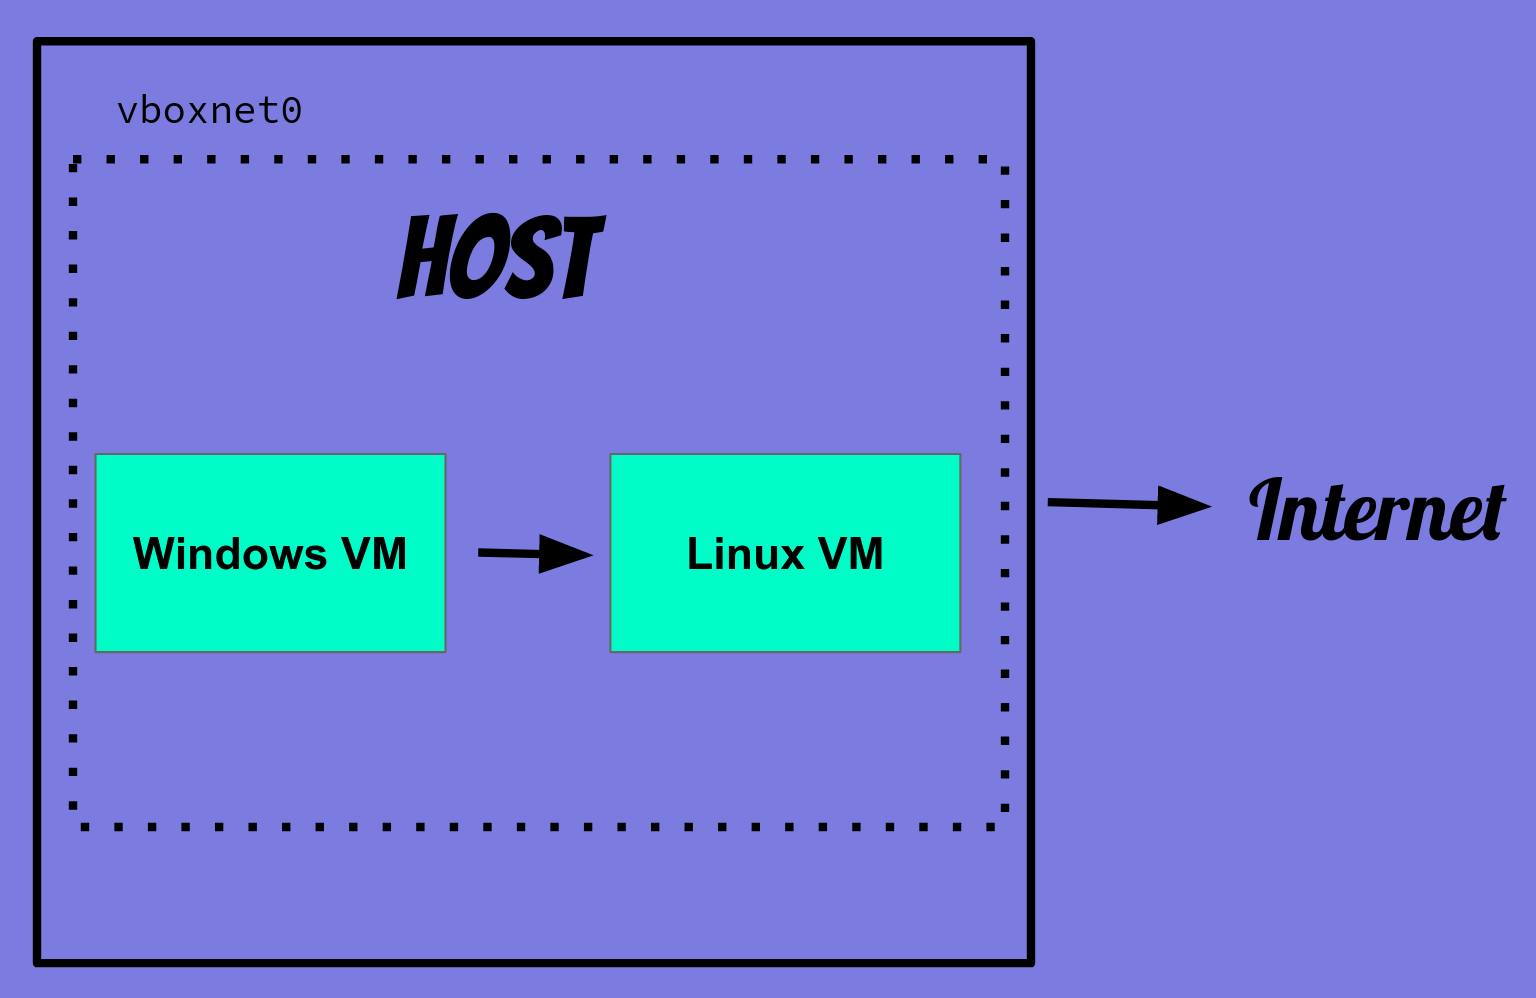
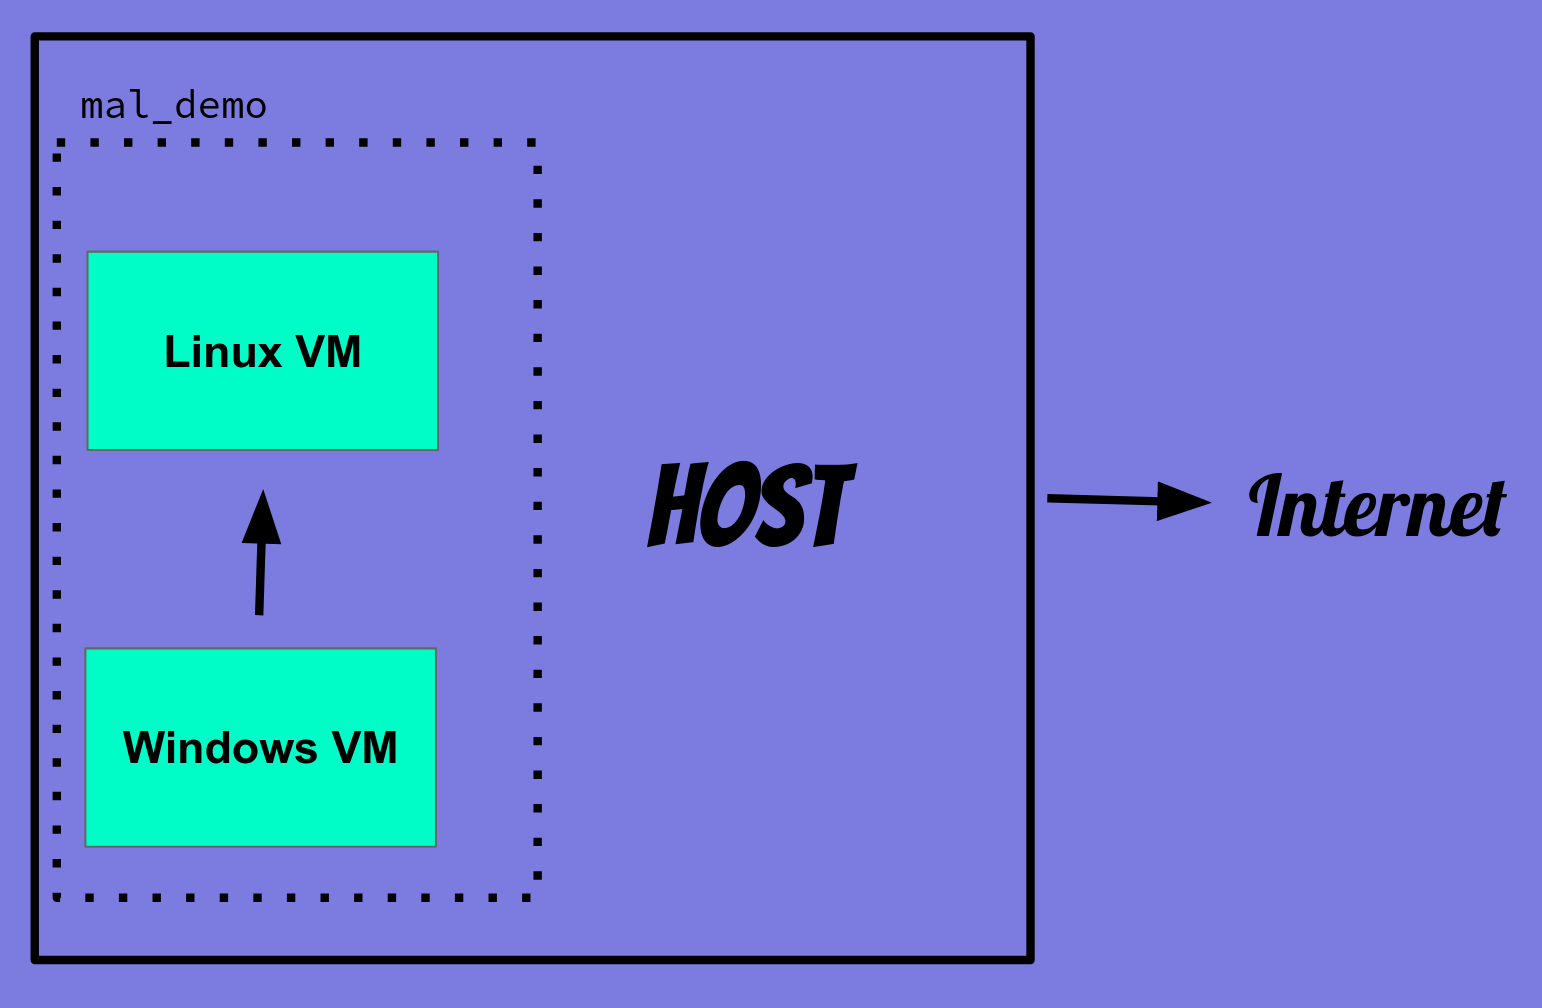
Internal Network setup

diff --git a/MalwareAnalysis/Workshop_Setup_Guide.md b/MalwareAnalysis/Workshop_Setup_Guide.md
@@ -14,15 +14,18 @@
 
 ## Lab Setup Guide 
 
+In our lab we want all traffic from the Windows VM (where we will be running malware) to pass through the Linux VM (which acts as a fake DNS and sniffer).  
+Additionally we not want the VMs to communicate with out Host machine and vice versa (to be safe) and definitely not to communicate with the Internet.
+
 This is what we're aiming for:  
 ![lab-setup](images/lab-setup.png)
 
 - The VMs are:
-  - WoSec_Malware_Analysis.ova [Here](https://drive.google.com/open?id=1UFZ3WRpGEnNaF0dMS0m_a5lOUDXYpDv1)
+  - WoSec_Malware_Analysis.ova [Download Here](https://drive.google.com/open?id=1UFZ3WRpGEnNaF0dMS0m_a5lOUDXYpDv1)
     - ~ 8 GB
     - Windows 10 environment for running malware.
     - password: *infectedmachine*
-  - WoSec_REMnux.ova [Here](https://drive.google.com/open?id=1I80zKVPWa4J5l8t_cVW1V9URKnTUdgku)
+  - WoSec_REMnux.ova [Download Here](https://drive.google.com/open?id=1I80zKVPWa4J5l8t_cVW1V9URKnTUdgku)
     - ~ 2 GB
     - REMnux Ubuntu distro which contains tools for analyzing malware.
     - List of [tools](https://remnux.org/docs/distro/tools/) that arrive with the distro.
@@ -30,13 +33,13 @@ This is what we're aiming for:
 
 - Import the VMs to VirtualBox: `File --> Import Appliance`
 
-- Before starting up the VMs, check the settings:
+- Before starting up the VMs, let's change some settings:
 
   > **Network Settings**
-  - Under each VM settings there should be one network adapter and it has been set to `Host-only Adapter`. Make sure there is no NAT adapter. We do not want these VMs to have access to the interwebs.
+  - Under each VM settings there should be one network adapter and it has been set to `Host-only Adapter`. Initially I had planned for it this way; then realised it is best to not enable the Host and the VMs to communicate with each other. 
+  - Let us change that to `Internal Network` for both VMs. Give it a name you like (in the example I used `mal_demo`) and make sure to sue the same name in both VMs. Additionally under `Advanced`, change the `Promiscuous Mode` to `Allow VMs`.
+  - Make sure there is no NAT adapter. We do not want these VMs to have access to the interwebs.
   ![vm_network](images/network.png)
-  - If your VBox have other VMs already connected to `vboxnet0` or you are not able to see a drop down list of any `Host-only Adapter`, you can create one by going through `File --> Host Network Manager`. You can change the IPv4 Address/Mask, but make sure to note it down and change it in the VMs accordingly. The VMs currently make use of `192.168.56.1/24`. 
-  ![host-adapter-1](images/host-adapter-1.png)
 
   > **System Settings**
   - Adjust the Base Memory as you see fit. Otherwise in this configutation WoSec_REMnux is set to ~1GB and WoSec_Malware_Analysis is set to ~4GB. If the VMs are slow, it would mean more RAM is needed as long as it doesn't compromise the performance of your Host machine ;).
